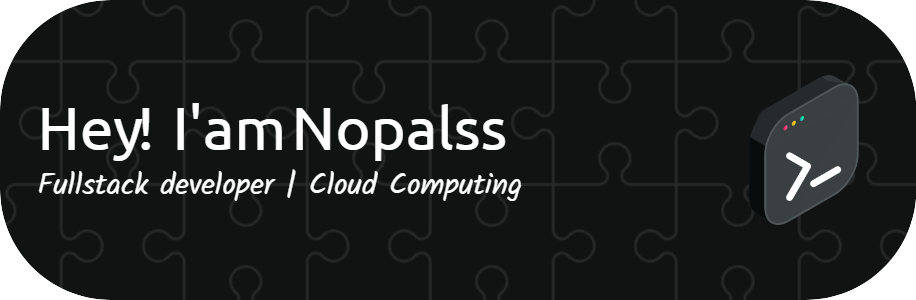
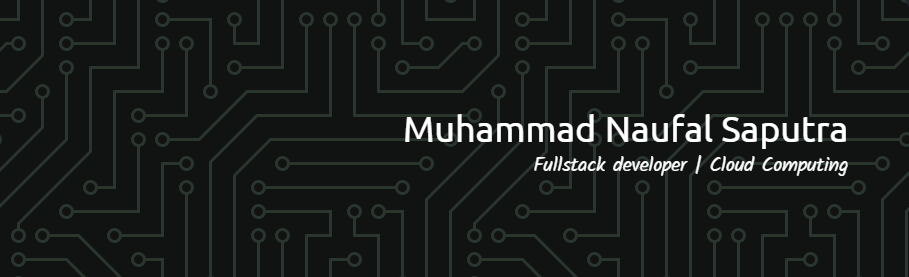
nopal

Changed region(s): [[0.0, 0.0, 1.0, 1.0], [0.4312, 0.2022, 0.4928, 0.2888], [0.5853, 0.8664, 0.6161, 0.8953]]

diff --git a/README.md b/README.md
@@ -1,4 +1,4 @@
-[Nopal](./img/header.png)
+![Nopal](./img/Header.png)
 👋 Hi there, I’m Naufal!<br>I’m an Information Systems student at Bina Sarana Informatika University (6th semester) with a strong interest in full-stack web development and digital product development.<br><br>🔧 Tech Stack:<br><br>Frontend: React.js, Next.js, Vue.js, HTML, CSS, JavaScript, TypeScript<br><br>Backend: Node.js, PHP, Express.js<br><br>Database: MySQL, MongoDB<br><br>🎓 Alumni Bangkit Academy<br>💼 Internship experience at PT. Kawan Kerja, currently interning at Bantu<br>🌱 Eager to learn more about SAP, enterprise systems, and scalable architectures<br>💡 Passionate about solving real-world problems with tech<br>📈 Actively looking for freelance opportunities and job openings in web development<br><br>📬 Let’s connect! Reach out via LinkedIn or email.
 
 
